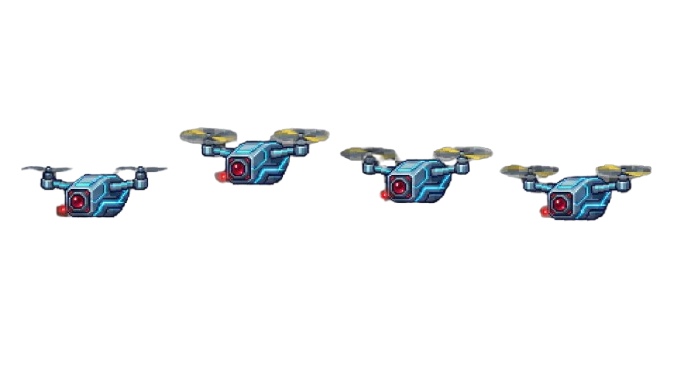
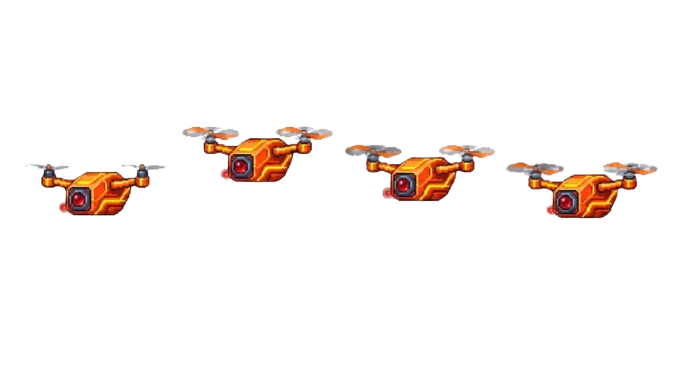
feat: 드론 색상/모션 수정

diff --git a/src/entities/Obstacle.js b/src/entities/Obstacle.js
@@ -92,7 +92,7 @@ export class Obstacle {
                 this.angle += 0.02 * speedFactor; // 0.1 -> 0.02로 속도 대폭 감소
                 this.y = this.initialY + Math.sin(this.angle) * 20; // 위아래로 50px 움직임
             } else if (this.game.score >= 10000) {
-                this.angle += 0.01 * speedFactor; // 0.1 -> 0.02로 속도 대폭 감소
+                this.angle += 0.04 * speedFactor; // 0.1 -> 0.02로 속도 대폭 감소
                 this.y = this.initialY + Math.sin(this.angle) * 30; // 위아래로 50px 움직임
             }
 
